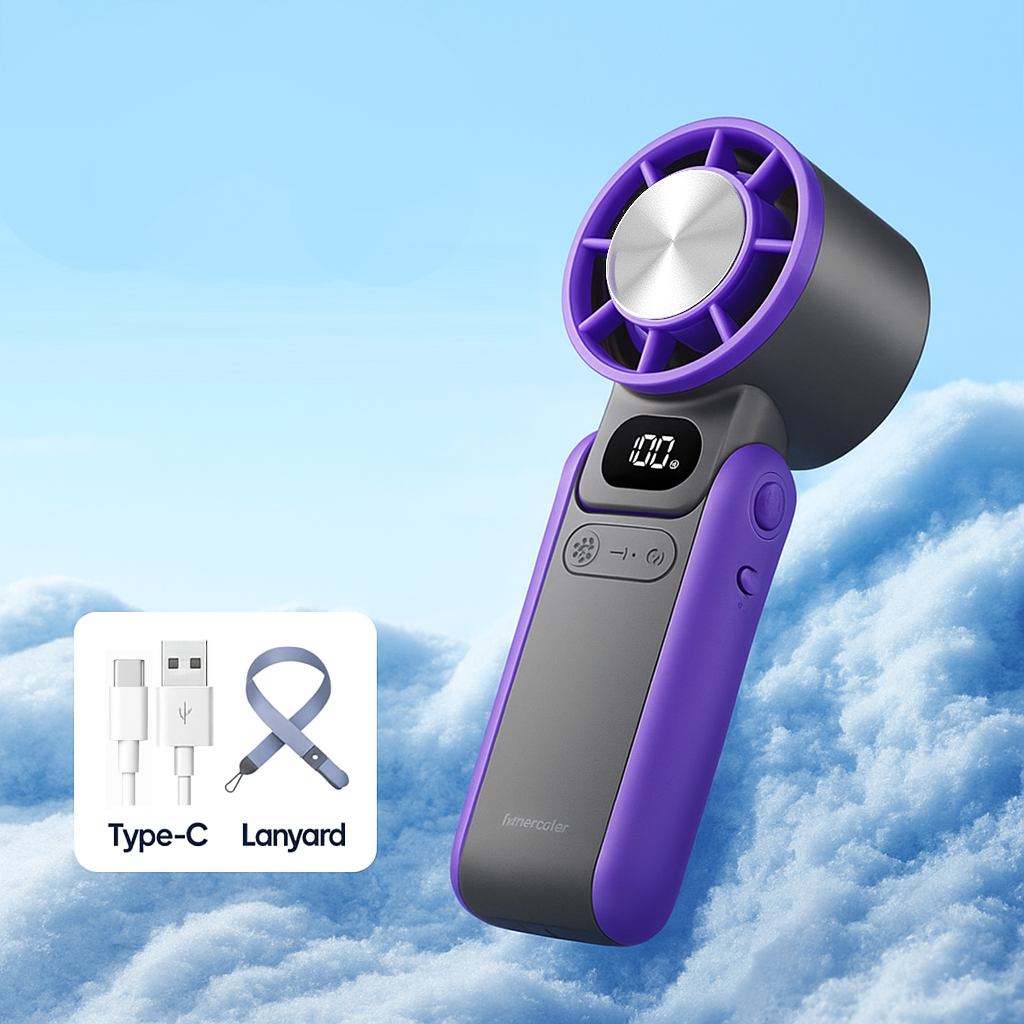
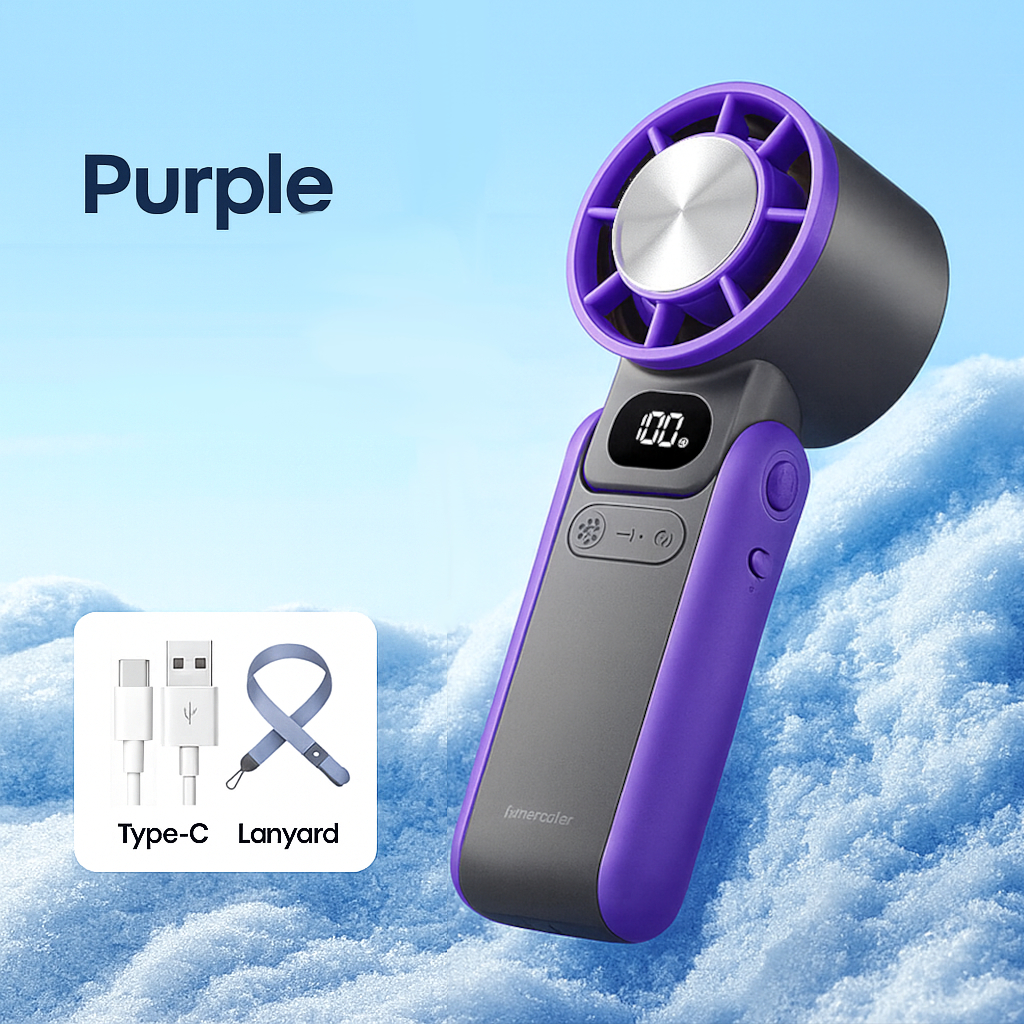
add shopify button, update product images

diff --git a/product.html b/product.html
@@ -64,7 +64,7 @@
             <div class="hero-buy__grid">
                 <div class="hero-buy__gallery">
                     <img 
-                        src="assets/model-black.jpg" 
+                        src="assets/high-energy.jpg" 
                         alt="WARCHARGE model view" 
                         class="hero-buy__main-img"
                         id="heroBuyImage"
@@ -79,18 +79,19 @@
                         </button>
                         
                         <div class="hero-buy__thumbnails">
-                            <button class="thumb-buy thumb-buy--active" data-image="assets/model-black.jpg">
-                                <img src="assets/model-black.jpg" alt="View 1" loading="lazy">
+                            <button class="thumb-buy thumb-buy--active" data-image="assets/high-energy.jpg">
+                                <img src="assets/high-energy.jpg" alt="View 4" loading="lazy">
                             </button>
                             <button class="thumb-buy" data-image="assets/model-white.jpg">
                                 <img src="assets/model-white.jpg" alt="View 2" loading="lazy">
                             </button>
+                            <button class="thumb-buy" data-image="assets/model-black.jpg">
+                                <img src="assets/model-black.jpg" alt="View 1" loading="lazy">
+                            </button>
                             <button class="thumb-buy" data-image="assets/model-violet.jpg">
                                 <img src="assets/model-violet.jpg" alt="View 3" loading="lazy">
                             </button>
-                            <button class="thumb-buy" data-image="assets/high-energy.jpg">
-                                <img src="assets/high-energy.jpg" alt="View 4" loading="lazy">
-                            </button>
+                            
                         </div>
                         
                         <button class="carousel-arrow carousel-arrow--right" aria-label="Next image">
@@ -168,13 +169,14 @@
                         </div>
                     </div>
                     
-                    <!-- Custom Checkbox & ADD TO CART CTA-->
+                    <!-- Custom Checkbox -->
                     <label class="custom-checkbox">
                         <input type="checkbox" id="giftWrap">
                         <span class="custom-checkbox__box"></span>
                         <span class="custom-checkbox__label">Add gift wrap (+$5.00)</span>
                     </label>
 
+                        <!-- ADD TO CART cta-->
                         <!-- div with id="addToCart" for the toast popup -->
                         <div id="addToCart">
                         <!-- Button with video-->
@@ -198,6 +200,7 @@
                             2px 2px 6px rgba(255, 255, 255, 0.1),   /* soft shadow depth */
                             0 0 8px rgba(255, 255, 255, 0.2); /* subtle warm glow fun */
                           background: linear-gradient(180deg, #ffffff 0%, #ffffff 100%);
+                          background-clip: text;
                           -webkit-background-clip: text;
                           -webkit-text-fill-color: transparent;
                           display: inline-block;
@@ -208,7 +211,211 @@
                         </div>
                     
                     
-                    <!-- CTAs & Custom Checkbox -->
+                    <!-- Buy CTA -->
+                    <div id='product-component-1764860843692'></div>
+<script type="text/javascript">
+/*<![CDATA[*/
+(function () {
+  var scriptURL = 'https://sdks.shopifycdn.com/buy-button/latest/buy-button-storefront.min.js';
+  if (window.ShopifyBuy) {
+    if (window.ShopifyBuy.UI) {
+      ShopifyBuyInit();
+    } else {
+      loadScript();
+    }
+  } else {
+    loadScript();
+  }
+  function loadScript() {
+    var script = document.createElement('script');
+    script.async = true;
+    script.src = scriptURL;
+    (document.getElementsByTagName('head')[0] || document.getElementsByTagName('body')[0]).appendChild(script);
+    script.onload = ShopifyBuyInit;
+  }
+  function ShopifyBuyInit() {
+    var client = ShopifyBuy.buildClient({
+      domain: 'jnr35f-j0.myshopify.com',
+      storefrontAccessToken: '6d2b3371273563fc70b1554be9a6750d',
+    });
+    ShopifyBuy.UI.onReady(client).then(function (ui) {
+      ui.createComponent('product', {
+        id: '10448286450002',
+        node: document.getElementById('product-component-1764860843692'),
+        moneyFormat: '%E2%82%AC%7B%7Bamount_with_comma_separator%7D%7D',
+        options: {
+  "product": {
+    "styles": {
+      "product": {
+        "max-width": "100%",
+        "margin-left": "auto",
+        "margin-right": "auto",
+        "margin-bottom": "30px",
+        "@media (min-width: 601px)": {
+          "max-width": "calc(25% - 20px)",
+          "margin-left": "20px",
+          "margin-bottom": "50px"
+        }
+      },
+      "img": {
+        "width": "100%",
+        "max-width": "400px",
+        "@media (max-width: 600px)": {
+          "max-width": "100%",
+          "height": "auto"
+        }
+      },
+      "imgWrapper": {
+        "max-width": "100%",
+        "@media (max-width: 600px)": {
+          "max-width": "100%"
+        }
+      },
+      "button": {
+        "font-weight": "bold",
+        "font-size": "16px",
+        "padding-top": "18px",
+        "padding-bottom": "18px",
+        "padding-left": "60px",
+        "padding-right": "60px",
+        "width": "100%",
+        "max-width": "320px",
+        "border-radius": "8px",
+        ":hover": {
+          "background-color": "#addddd"
+        },
+        "background-color": "#c0f5f6",
+        ":focus": {
+          "background-color": "#addddd"
+        },
+        "@media (max-width: 600px)": {
+          "font-size": "18px",
+          "padding-top": "20px",
+          "padding-bottom": "20px",
+          "padding-left": "40px",
+          "padding-right": "40px",
+          "width": "100%",
+          "max-width": "100%"
+        }
+      },
+      "quantityInput": {
+        "font-size": "16px",
+        "padding-top": "15px",
+        "padding-bottom": "15px",
+        "@media (max-width: 600px)": {
+          "font-size": "18px",
+          "padding-top": "18px",
+          "padding-bottom": "18px"
+        }
+      }
+    },
+    "text": {
+      "button": "Add to cart"
+    }
+  },
+  "productSet": {
+    "styles": {
+      "products": {
+        "@media (min-width: 601px)": {
+          "margin-left": "-20px"
+        }
+      }
+    }
+  },
+  "modalProduct": {
+    "contents": {
+      "img": false,
+      "imgWithCarousel": false,
+      "button": true,
+      "buttonWithQuantity": true
+    },
+    "styles": {
+      "product": {
+        "max-width": "100%",
+        "@media (min-width: 601px)": {
+          "max-width": "100%",
+          "margin-left": "0px",
+          "margin-bottom": "0px"
+        }
+      },
+      "button": {
+        "font-weight": "bold",
+        "font-size": "16px",
+        "padding-top": "18px",
+        "padding-bottom": "18px",
+        "padding-left": "60px",
+        "padding-right": "60px",
+        "border-radius": "8px",
+        ":hover": {
+          "background-color": "#addddd"
+        },
+        "background-color": "#c0f5f6",
+        ":focus": {
+          "background-color": "#addddd"
+        },
+        "@media (max-width: 600px)": {
+          "font-size": "18px",
+          "padding-top": "20px",
+          "padding-bottom": "20px",
+          "width": "100%"
+        }
+      },
+      "quantityInput": {
+        "font-size": "16px",
+        "padding-top": "15px",
+        "padding-bottom": "15px"
+      }
+    },
+    "text": {
+      "button": "Add to cart"
+    }
+  },
+  "option": {},
+  "cart": {
+    "styles": {
+      "button": {
+        "font-weight": "bold",
+        "font-size": "14px",
+        "padding-top": "15px",
+        "padding-bottom": "15px",
+        ":hover": {
+          "background-color": "#addddd"
+        },
+        "background-color": "#c0f5f6",
+        ":focus": {
+          "background-color": "#addddd"
+        }
+      }
+    },
+    "text": {
+      "total": "Subtotal",
+      "button": "Checkout"
+    }
+  },
+  "toggle": {
+    "styles": {
+      "toggle": {
+        "font-weight": "bold",
+        "background-color": "#c0f5f6",
+        ":hover": {
+          "background-color": "#addddd"
+        },
+        ":focus": {
+          "background-color": "#addddd"
+        }
+      },
+      "count": {
+        "font-size": "14px"
+      }
+    }
+  }
+},
+      });
+    });
+  }
+})();
+/*]]>*/
+</script>
                     <div class="cta-group">
                         <div class="cta-btn-wrapper">
                             <button id="buyNow" class="buy-cta" data-analytics="buy-now">
@@ -240,7 +447,7 @@
         <div class="container">
             <h2 class="benefits__title">
                 <span class="weight-light">Why choose</span>
-                <span class="weight-bold">WARCHARGE</span>
+                <span class="weight-bold">AIROX</span>
             </h2>
             <p class="benefits__subtitle">Experience the difference of premium craftsmanship and customer-first service.</p>
             

diff --git a/styles.css b/styles.css
@@ -4064,6 +4064,32 @@ p {
     letter-spacing: 1px;
 }
 
+/* Shopify Buy Button Container Overrides */
+#product-component-1764860843692 {
+    width: 100%;
+    display: flex;
+    justify-content: center;
+    margin: 20px 0;
+}
+
+@media (max-width: 767px) {
+    #product-component-1764860843692 {
+        width: 100% !important;
+        max-width: 100% !important;
+        padding: 0 1rem;
+    }
+    
+    #product-component-1764860843692 iframe {
+        width: 100% !important;
+        max-width: 100% !important;
+    }
+    
+    /* Override Shopify's inline styles if needed */
+    [data-shopify-buy-ui] {
+        width: 100% !important;
+    }
+}
+
 /* Mobile-specific navbar behavior for product page */
 @media (max-width: 767px) {
     #navbarProduct {
@@ -4071,7 +4097,7 @@ p {
         top: 0;
         left: 0;
         right: 0;
-        background-color: rgba(0, 0, 0, 0.16) !important;
+        background-color: rgba(0, 0, 0, 0.14) !important;
         transition: none;
     }
     
@@ -4118,8 +4144,10 @@ p {
 #addtocart.cta-btn-wrapper button.buy-cta {
 position: relative !important;
 border: 17px solid !important;
-border-image: linear-gradient(to bottom, rgb(255, 200, 100), rgb(255, 80, 0)) 1 !important;
-background-color: rgb(28, 0, 60) !important;
+border-image: linear-gradient(to bottom, rgb(255, 241, 216), rgb(255, 80, 0)) 1 !important;
+/*border-image: linear-gradient(to bottom, rgb(135, 200, 203), rgb(255, 220, 205)) 1 !important;*/
+/*background-color: rgb(28, 0, 60) !important;*/
+background-color: rgb(4, 31, 82) !important;
 overflow: hidden !important;
 transition: border-image 0s, background-color 0.2s, box-shadow 0.1s !important;
 border-radius: 20px !important;
